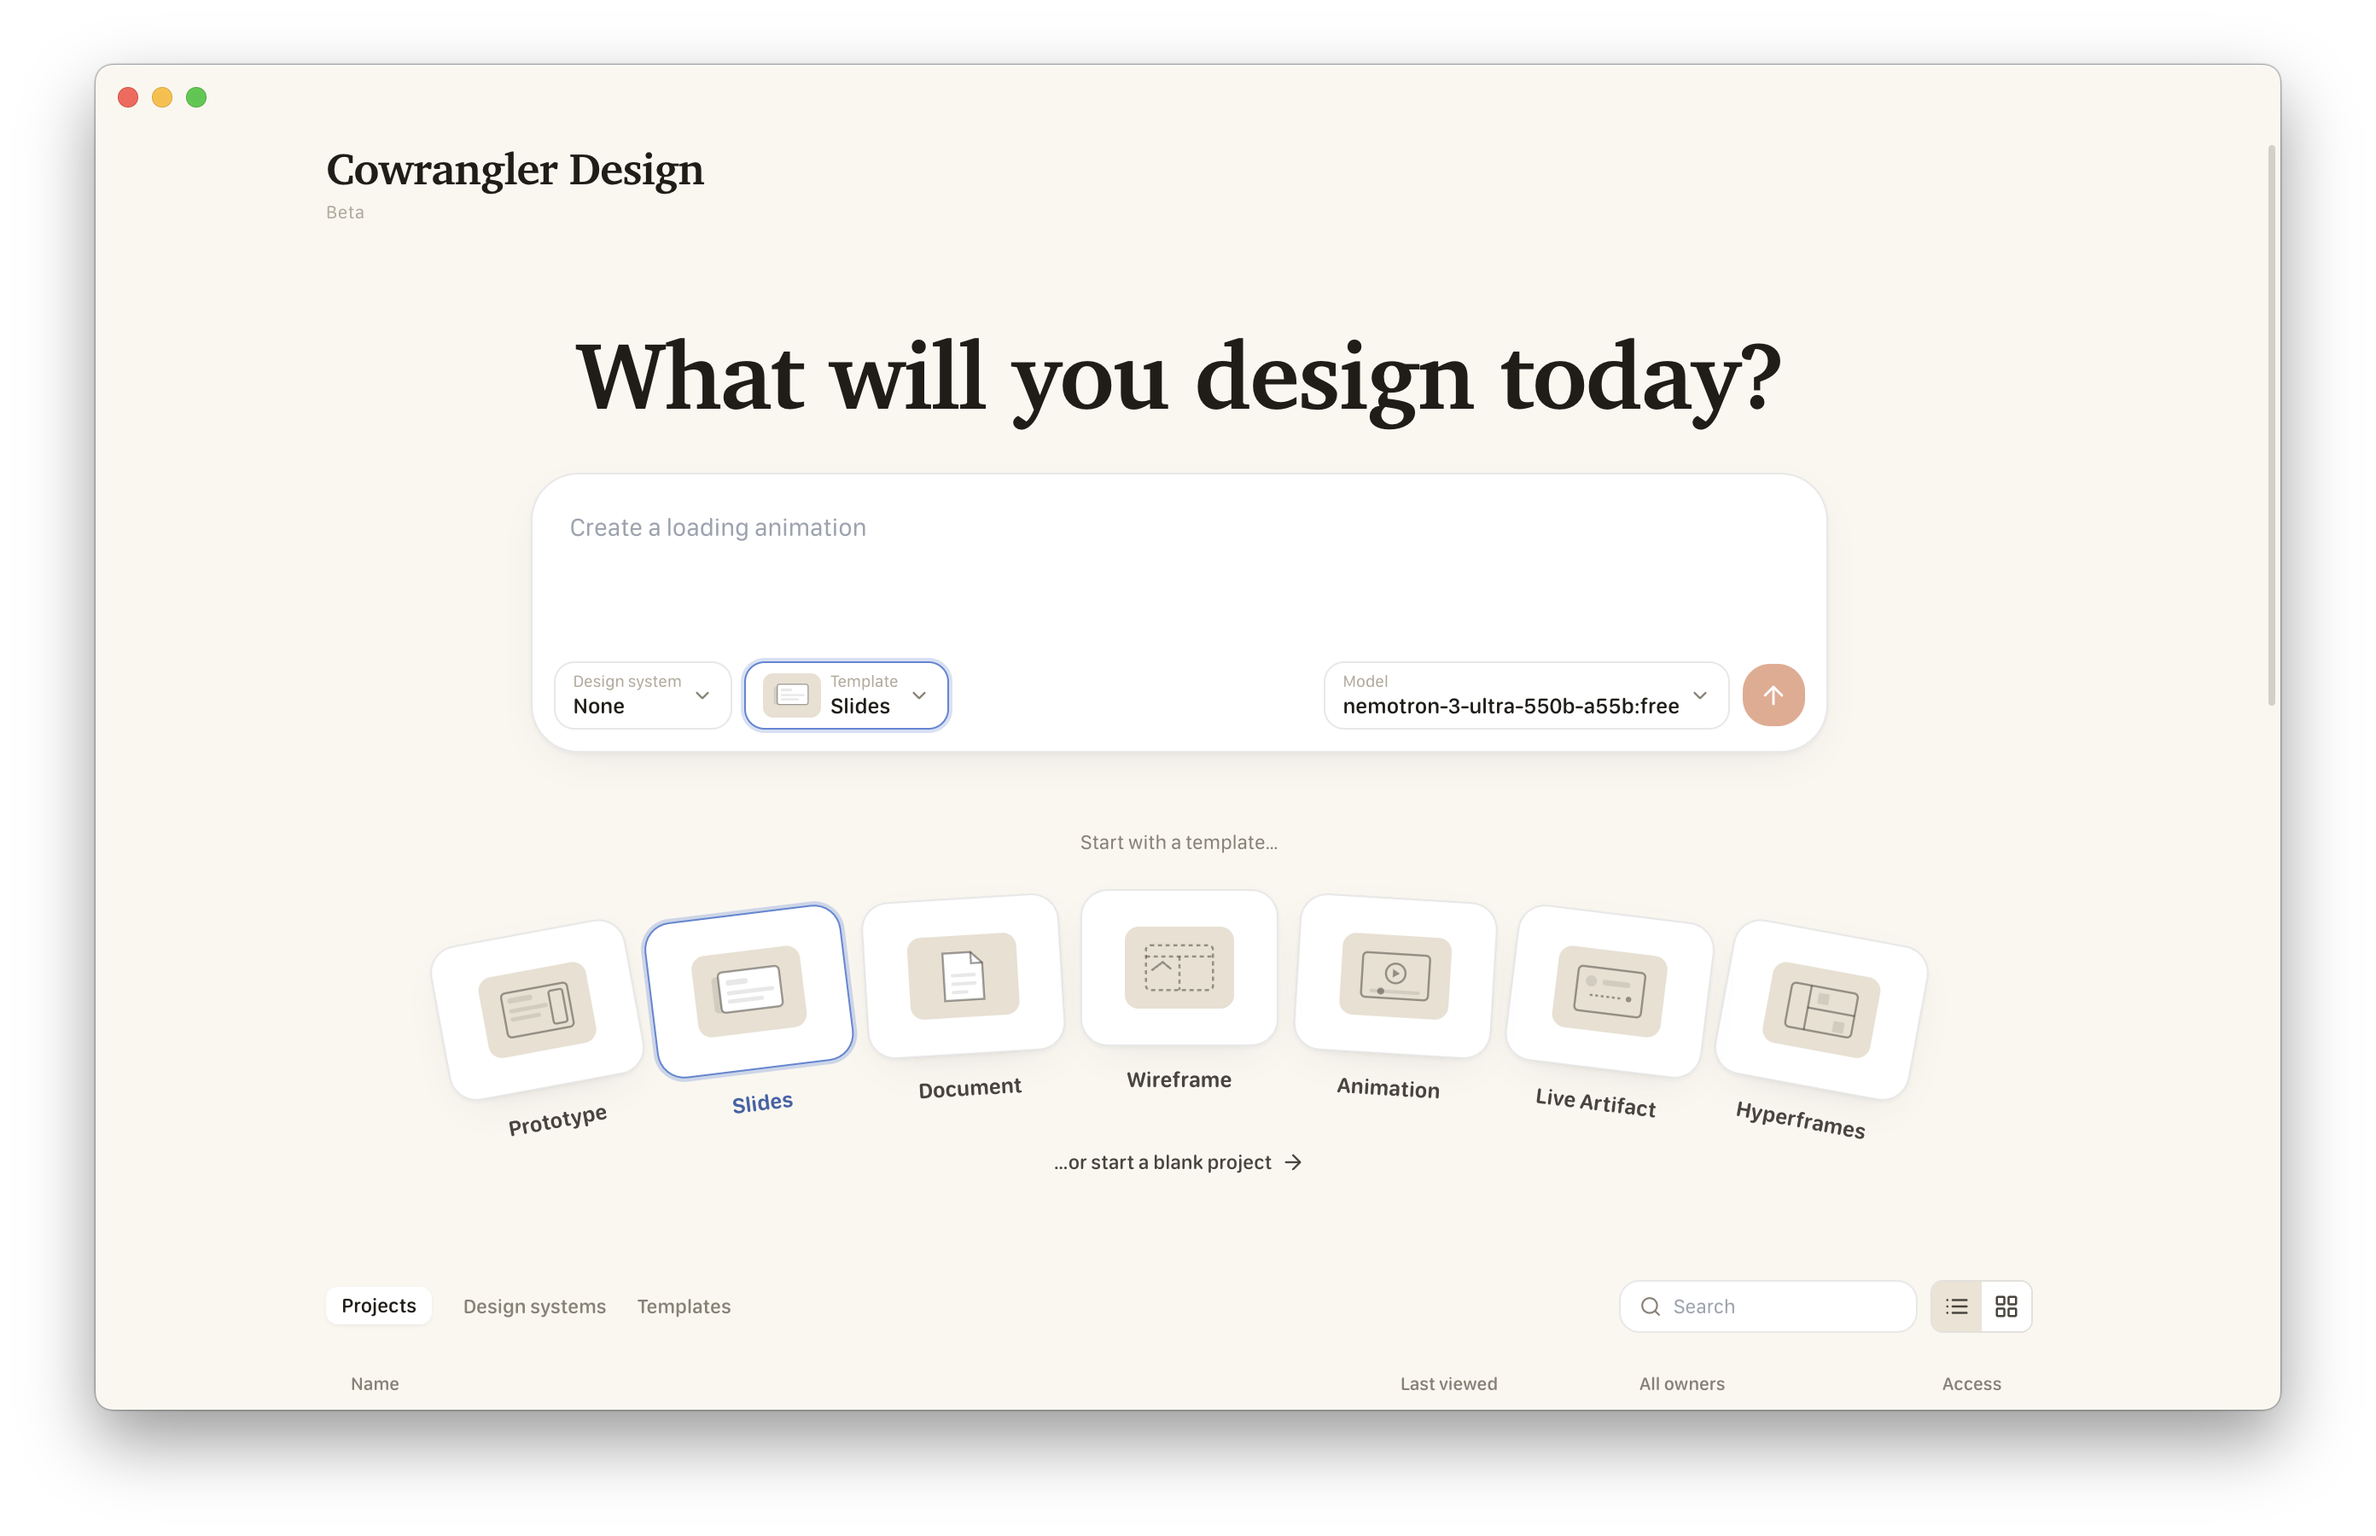
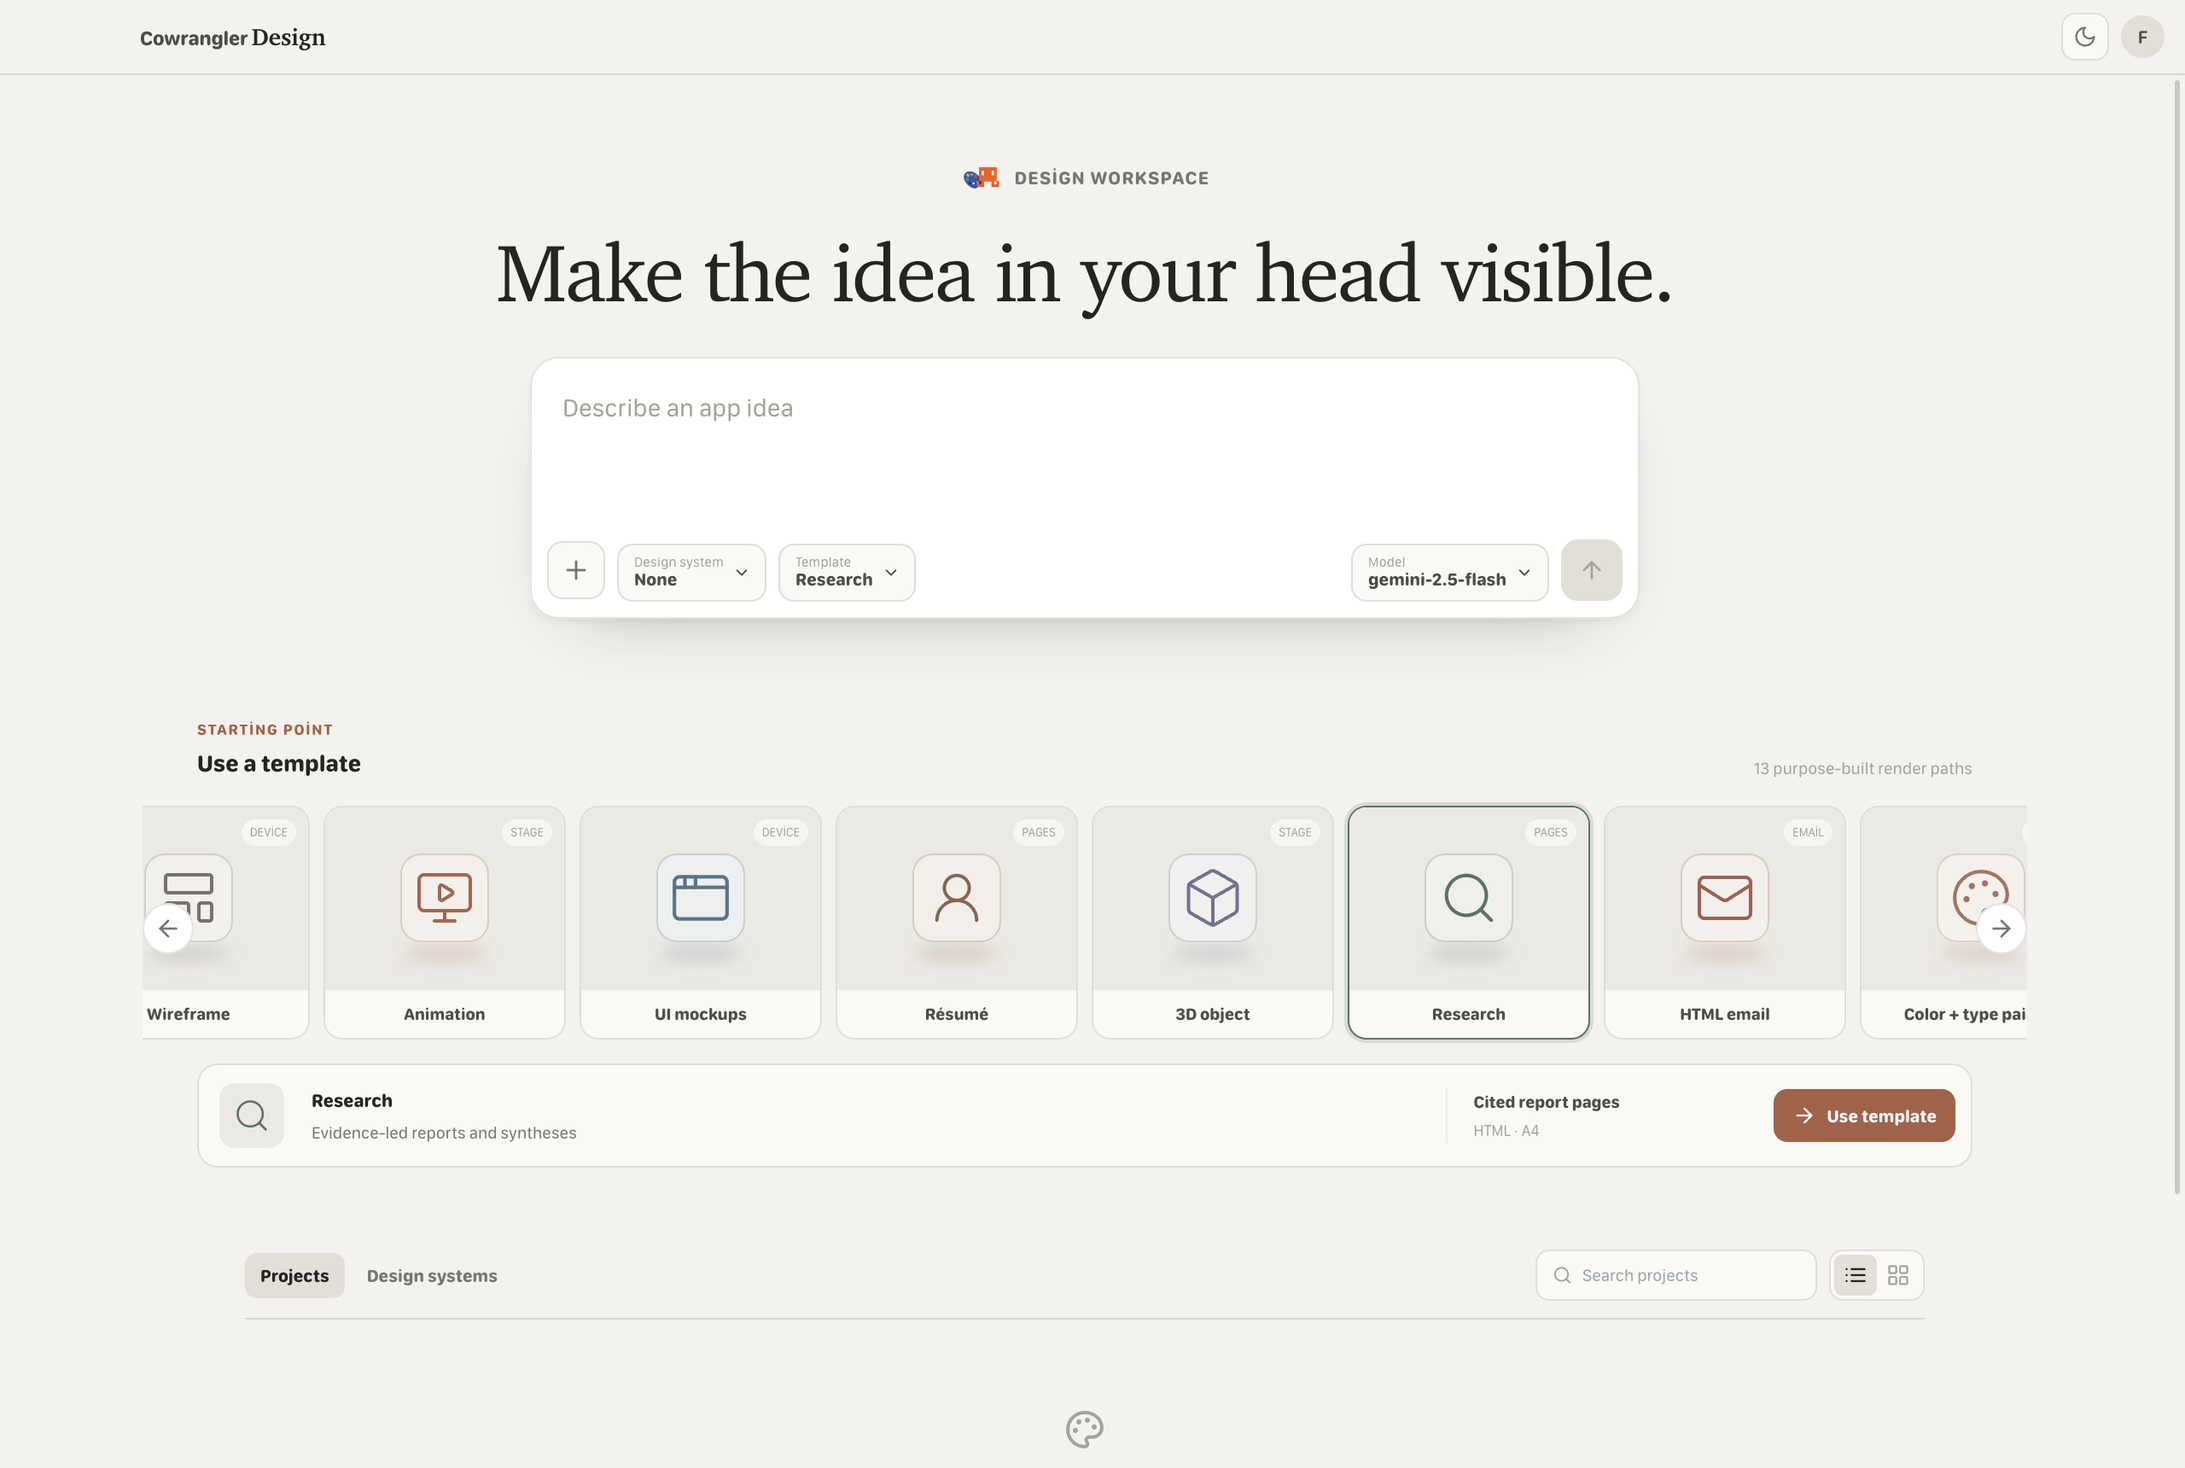
chore(release): prepare v2.1.8
- bump all workspace packages and lockfile to 2.1.8
- increase the default agent turn limit to 30 minutes
- add the 2.1.8 changelog
- refresh the README version badge and Design screenshot
- stabilize Design screenshot coverage

diff --git a/apps/desktop/src/desktop/components/settings/AdvancedTab.tsx b/apps/desktop/src/desktop/components/settings/AdvancedTab.tsx
@@ -30,7 +30,7 @@ export function AdvancedTab() {
 
   // Agent tur limitleri — core agent döngüsündeki sert tavan (max_turn_ms) ve
   // akış sessizlik eşiği (stream_idle_timeout_ms). Saniye olarak gösterilir.
-  const maxTurnSec = Math.round(((config.max_turn_ms as number | undefined) ?? 300_000) / 1000)
+  const maxTurnSec = Math.round(((config.max_turn_ms as number | undefined) ?? 1_800_000) / 1000)
   const idleTimeoutSec = Math.round(((config.stream_idle_timeout_ms as number | undefined) ?? 120_000) / 1000)
 
   async function pickWorkspaceRoot() {
@@ -123,7 +123,7 @@ export function AdvancedTab() {
         <h4 className="text-sm font-semibold text-text-primary mb-1">Agent limits</h4>
         <p className="text-xs text-text-muted mb-4">
           A single agent turn is hard-stopped after the max duration — this is the
-          &ldquo;turn exceeded 300s&rdquo; message on long design/code jobs. Raise it if your
+          &ldquo;turn exceeded 1800s&rdquo; message on long design/code jobs. Raise it if your
           tasks legitimately run long. Takes effect on the next turn.
         </p>
         <div className="grid grid-cols-2 gap-3">

diff --git a/packages/core/src/agent.ts b/packages/core/src/agent.ts
@@ -1222,7 +1222,7 @@ export class Agent {
           const envMaxTurn = parseInt(process.env.COWRANGLER_MAX_TURN_MS ?? "", 10);
           maxTurnMs = Number.isFinite(envMaxTurn)
             ? envMaxTurn
-            : ((cfg as any)?.max_turn_ms ?? 300_000); // 5 dk default
+            : ((cfg as any)?.max_turn_ms ?? 1_800_000); // 30 dk default
           const turnDeadline = Date.now() + maxTurnMs;
           this._lastStreamActivity = Date.now();
           if (idleTimeoutMs > 0 || maxTurnMs > 0) {

diff --git a/e2e/design-ui.spec.ts b/e2e/design-ui.spec.ts
@@ -57,6 +57,8 @@ test('Design home exposes 13 render-specific templates, systems, and theme switc
     return cardBounds.left >= railBounds.left && cardBounds.right <= railBounds.right
   })).toBe(true)
 
+  await design.mouse.move(5, 5)
+  await design.locator('.design-home-shell').evaluate(element => element.scrollTo(0, 0))
   await design.waitForTimeout(500)
   await design.screenshot({ path: '/tmp/cowrangler-design-light.png', fullPage: true })
 

diff --git a/CHANGELOG.md b/CHANGELOG.md
@@ -6,6 +6,28 @@ Version numbers follow [Semantic Versioning](https://semver.org/).
 
 ---
 
+## [2.1.8] — 2026-07-18
+
+### Added
+- Rebuilt Cowrangler Design around 13 purpose-built starting points: Mobile app design, Slides, Document, Wireframe, Animation, UI mockups, Résumé, 3D object, Research, HTML email, Color + type pairing, Diagram, and Flier. Each template now carries its own render path, presentation metadata, and creation behavior.
+- Added a full light/dark appearance switch to the Design workspace and expanded the Design Systems library with included presets alongside user-created systems.
+- Added Electron E2E coverage for the Design template experience and manual MCP persistence, including viewport bounds, selection visibility, config-file persistence, and connector-list refresh.
+
+### Changed
+- Reimagined the Design home, project library, editor controls, and canvas chrome around a quieter, more focused creation flow with the new “Make the idea in your head visible.” prompt.
+- Reworked the template picker into a responsive two-column menu that chooses its opening direction from available viewport space; the horizontal template rail now snaps by full cards and centers the active selection.
+- Refined the shared capability surfaces for Models, Skills, Connectors, and chat-level connector controls so configuration and selection follow the same interaction language.
+- Increased the default hard limit for a single agent turn from 5 minutes to 30 minutes. The stream-idle watchdog remains at 120 seconds so genuinely stalled providers are still detected early.
+- Synchronized every workspace package and the lockfile to version `2.1.8`, and refreshed the Design screenshot used by the documentation.
+- Limited production dependency-audit failures to critical findings while the pinned Electron major-version upgrade is handled separately.
+
+### Fixed
+- Manual stdio, HTTP, and SSE MCP servers now appear in the Connectors directory under the Custom category immediately after they are saved.
+- Saving a manual MCP no longer blocks the UI on a slow or unreachable server handshake; configuration is persisted first and the live connection starts in the background.
+- Global and project-local `mcp_servers` maps now merge by server name instead of a local config hiding unrelated global/manual connectors.
+- Added a shared `window.electronAPI` declaration and an E2E TypeScript project, fixing “Property 'electronAPI' does not exist on type 'Window'” in renderer-adjacent tests and tooling.
+- Fixed template-menu clipping, oversized option glyphs, stacking conflicts, and misalignment across short or narrow Design windows.
+
 ## [2.1.7] — 2026-07-17
 
 ### Added

diff --git a/README.md b/README.md
@@ -12,7 +12,7 @@
   <img src="https://img.shields.io/badge/TypeScript-3178C6?style=flat&logo=typescript&logoColor=white" alt="TypeScript">
   <img src="https://img.shields.io/badge/Electron-2C2E3B?style=flat&logo=electron&logoColor=white" alt="Electron">
   <img src="https://img.shields.io/badge/React-20232A?style=flat&logo=react&logoColor=61DAFB" alt="React">
-  <img src="https://img.shields.io/badge/Version-2.1.2-orange?style=flat" alt="Version">
+  <img src="https://img.shields.io/badge/Version-2.1.8-orange?style=flat" alt="Version">
   <a href="LICENSE"><img src="https://img.shields.io/github/license/furkangonel/cowrangler?style=flat" alt="License"></a>
 </p>
 
